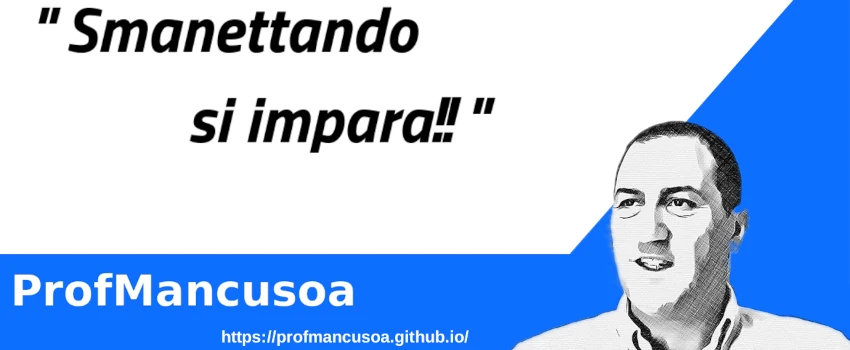
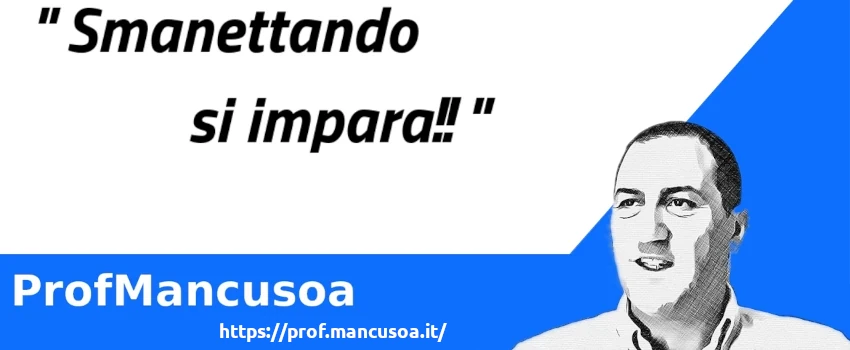
switching to prof.mancusoa.it

Changed region(s): [[0.2447, 0.9143, 0.5506, 1.0]]

diff --git a/src/routes/index.svelte b/src/routes/index.svelte
@@ -4,7 +4,7 @@
 	import { all_posts } from '$lib/stores/store';
     import { dev } from '$app/env';
 
-	const PAGE_SIZE = 4; // numero di post sulla home
+	const PAGE_SIZE = 6; // numero di post sulla home
 	//necessario per le visualizzazioni successive della home
 	let posts = [...$all_posts];
 
@@ -68,10 +68,14 @@
 	{#if featured[0]}
 		<!-- visualizza solo se c'e' un featured -->
 		<div class="row">
-			<div class="col-lg-12">
+            <!-- Spaziatore -->
+			<div class="col-lg-2" />
+			<div class="col-lg-8">
 				<!-- Featured blog post-->
 				<PostPreview metadata={featured[0].metadata} />
 			</div>
+            <!-- Spaziatore -->
+			<div class="col-lg-2" />
 		</div>
 	{/if}
 
@@ -85,32 +89,42 @@
     {/each}
     Quindi non si rieace a generare le righe in modo dinamico -->
 	<div class="row">
-		<div class="col-lg-6">
+		<div class="col-lg-4">
 			{#if posts[post_page_start]}
 				<PostPreview metadata={posts[post_page_start].metadata} />
 			{/if}
 		</div>
-		<div class="col-lg-6">
+		<div class="col-lg-4">
 			{#if posts[post_page_start + 1]}
 				<PostPreview metadata={posts[post_page_start + 1].metadata} />
 			{/if}
 		</div>
-	</div>
-	<div class="row">
-		<div class="col-lg-6">
+        <div class="col-lg-4">
 			{#if posts[post_page_start + 2]}
 				<PostPreview metadata={posts[post_page_start + 2].metadata} />
 			{/if}
 		</div>
-		<div class="col-lg-6">
+	</div>
+	<div class="row">
+		<div class="col-lg-4">
 			{#if posts[post_page_start + 3]}
 				<PostPreview metadata={posts[post_page_start + 3].metadata} />
+			{/if}
+		</div>
+		<div class="col-lg-4">
+			{#if posts[post_page_start + 4]}
+				<PostPreview metadata={posts[post_page_start + 4].metadata} />
+			{/if}
+		</div>
+        <div class="col-lg-4">
+			{#if posts[post_page_start + 5]}
+				<PostPreview metadata={posts[post_page_start + 5].metadata} />
 			{/if}
 		</div>
 	</div>
 
 	<!-- Pagination-->
-	{#if posts.length > 4}
+	{#if posts.length > 6}
 		<Paginatore page_size={PAGE_SIZE} {posts} on:cambioPagina={cambio_pagina} />
 	{/if}
 </div>

diff --git a/src/routes/__layout.svelte b/src/routes/__layout.svelte
@@ -42,23 +42,45 @@
 	<slot />
 {:else if $page.routeId == 'about'}
 	<slot />
+{:else if $page.routeId.startsWith('blog')}
+    <div class="container py-5 mt-5">
+        <div class="row">
+            <!-- Spaziatore -->
+            <div class="col-lg-2" />
+
+            <!-- Contenuto Principali-->
+            <div class="col-lg-8">
+                <!-- Qui ci va il contenuto principale -->
+                <slot />
+            </div>
+            <!-- Spaziatore -->
+            <div class="col-lg-2" />
+
+            <!-- Sidebar-->
+            <!-- <div class="col-lg-3 d-none d-lg-block">
+                <Categories />
+            </div> -->
+        </div>
+    </div>
 {:else}
 	<!-- Page content-->
 	<div class="container py-5 mt-5">
 		<div class="row">
-			<!-- Contenuto Principali-->
-			<div class="col-lg-8">
+        	<!-- Spaziatore -->
+			<!-- <div class="col-lg-1" /> -->
+
+            <!-- Contenuto Principali-->
+			<div class="col-lg-12">
 				<!-- Qui ci va il contenuto principale -->
                 <slot />
 			</div>
 			<!-- Spaziatore -->
-			<div class="col-lg-1" />
+			<!-- <div class="col-lg-1" /> -->
 
 			<!-- Sidebar-->
-			<div class="col-lg-3 d-none d-lg-block">
-				<!-- <Search /> -->
+			<!-- <div class="col-lg-3 d-none d-lg-block">
 				<Categories />
-			</div>
+			</div> -->
 		</div>
 	</div>
 {/if}

diff --git a/src/lib/components/Footer.svelte b/src/lib/components/Footer.svelte
@@ -5,7 +5,7 @@
 {#if pagina != null}
 	<footer class="py-1 bg-dark fixed-bottom">
 		<div class="container">
-			<p class="m-0 text-center text-white">Copyright &copy; profmancusoa 2022-2023 &nbsp; v1.3.21</p>
+			<p class="m-0 text-center text-white">Copyright &copy; profmancusoa 2022-2023 &nbsp; v1.4.0</p>
 		</div>
 	</footer>
 {/if}
